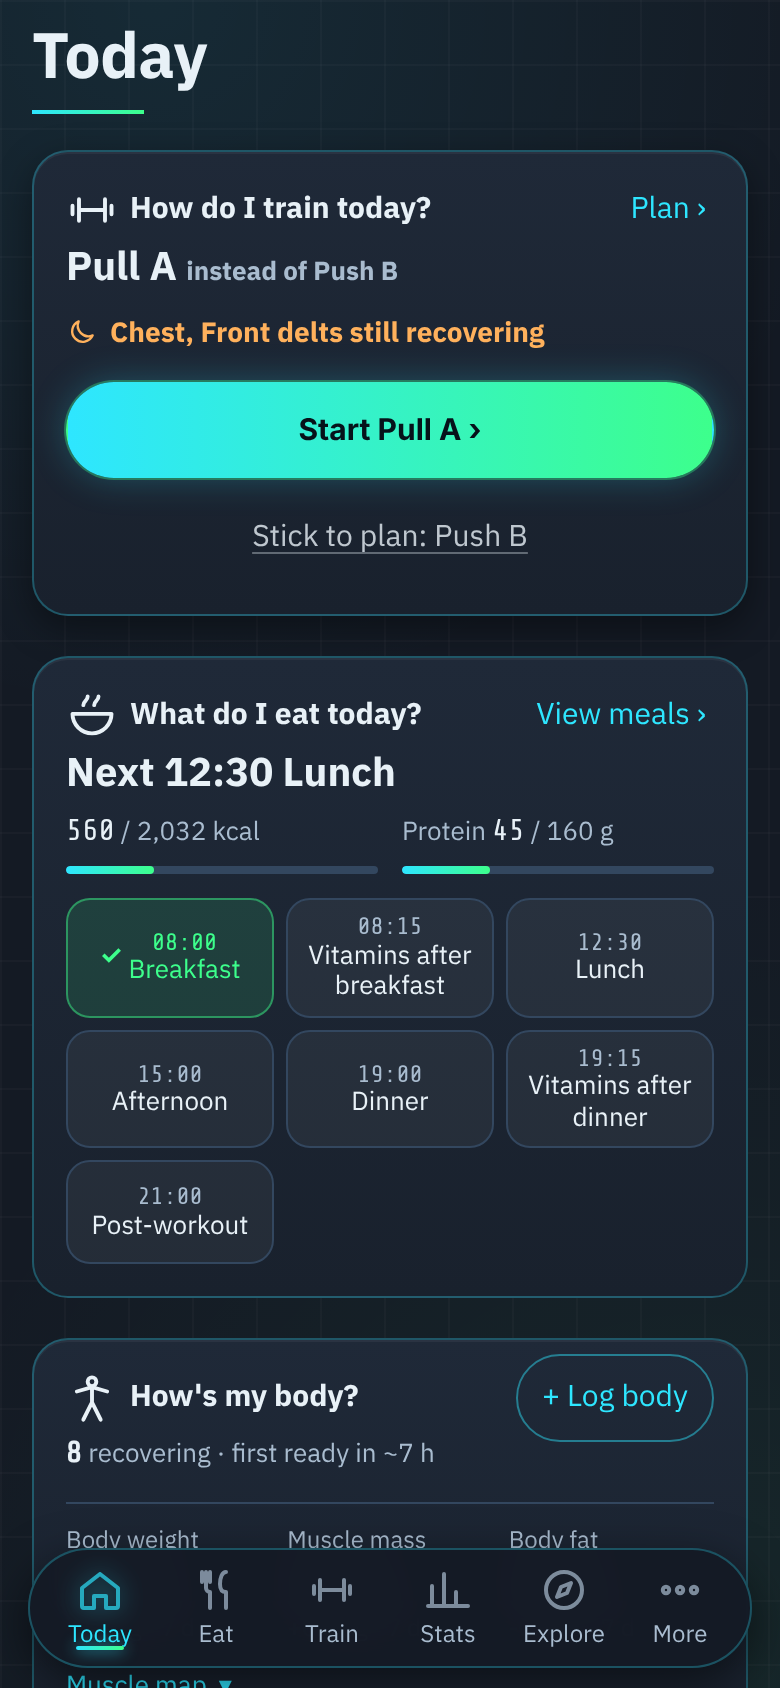
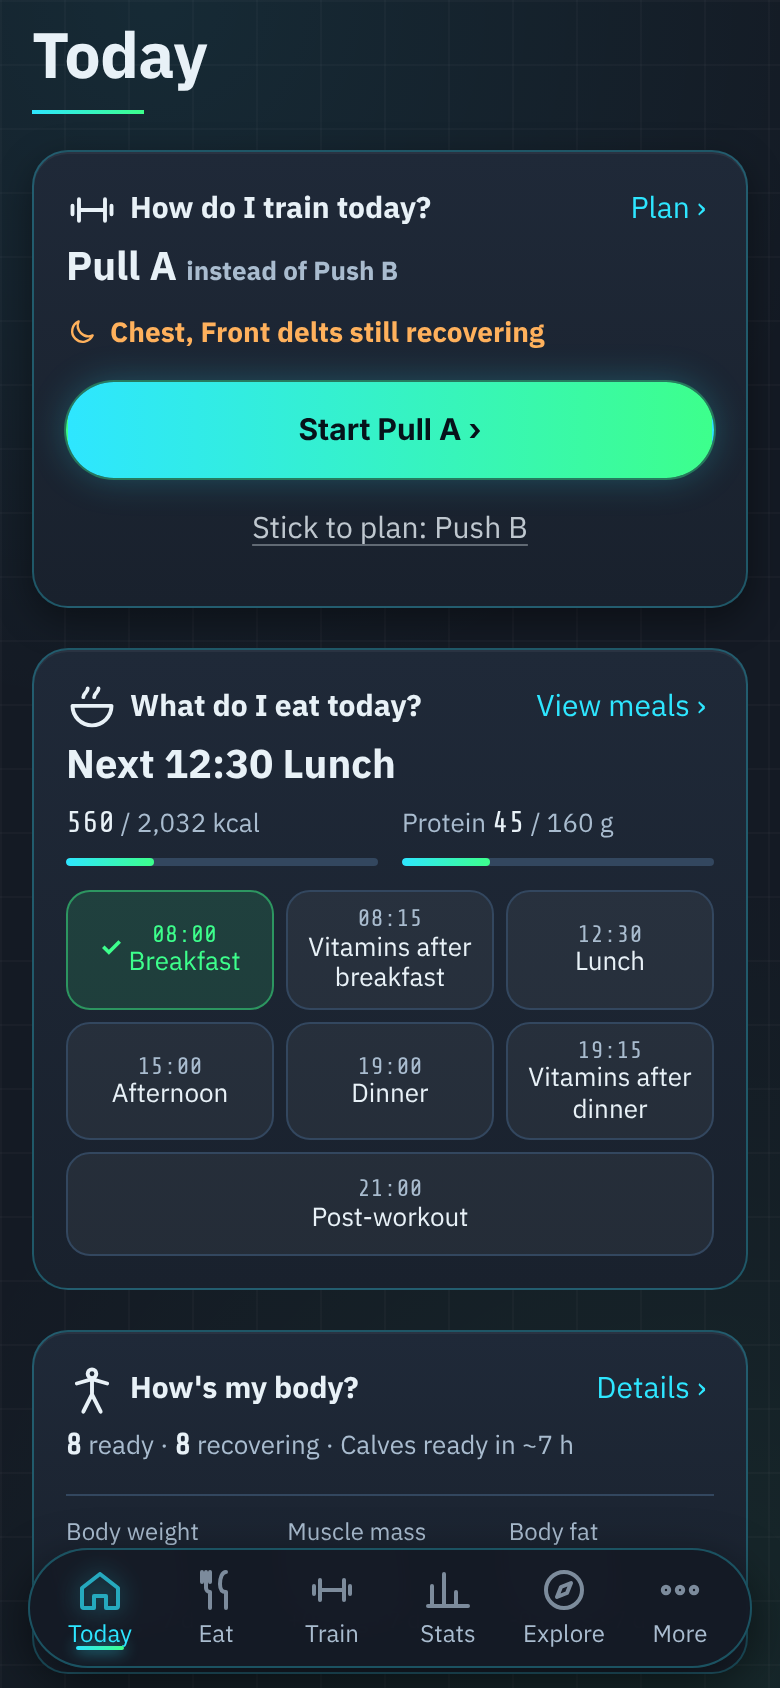
Today: full muscle names, named next-ready muscle, no orphan chip, fat delta in points (#123)
* docs: Today critique snapshot + redesign intent

Claude-Session: https://claude.ai/code/session_01TA1QFnqgBxBRFsiXemJ9Lg

* chore: ignore impeccable live-server state

Claude-Session: https://claude.ai/code/session_01TA1QFnqgBxBRFsiXemJ9Lg

* Today: plan first, one start button, inline meal tick, folded recovery

Claude-Session: https://claude.ai/code/session_01TA1QFnqgBxBRFsiXemJ9Lg

* docs: merge PR automatically once npm test passes

Claude-Session: https://claude.ai/code/session_01TA1QFnqgBxBRFsiXemJ9Lg

* docs: no OK wait between steps

Claude-Session: https://claude.ai/code/session_01TA1QFnqgBxBRFsiXemJ9Lg

* Today: recovery-aware start, undo on meal tick, progress bars, direct start

Claude-Session: https://claude.ai/code/session_01TA1QFnqgBxBRFsiXemJ9Lg

* Today: rested program leads, rest-day exit, inline meal cancel, over-target bar

Claude-Session: https://claude.ai/code/session_01TA1QFnqgBxBRFsiXemJ9Lg

* Today: body weight + 7-day change + weigh-in in the body card

Claude-Session: https://claude.ai/code/session_01TA1QFnqgBxBRFsiXemJ9Lg

* Today: body card shows weight, muscle mass and body fat

Claude-Session: https://claude.ai/code/session_01TA1QFnqgBxBRFsiXemJ9Lg

* Today: weigh-in opens the full body-log sheet

Claude-Session: https://claude.ai/code/session_01TA1QFnqgBxBRFsiXemJ9Lg

* Today: headline matches suggestion, inline cancel, blank weigh-in, fits above tab bar

Claude-Session: https://claude.ai/code/session_01TA1QFnqgBxBRFsiXemJ9Lg
[…]

diff --git a/public/js/home.js b/public/js/home.js
@@ -32,10 +32,10 @@ function renderHome(){const box=document.getElementById("v-home");if(!box)return
   const BL=(typeof BODY!=="undefined"?BODY:[]).slice().sort((x,y)=>x.d.localeCompare(y.d)),bwL=BL.filter(x=>x.kg>0).slice(-1)[0];
   const stat=(k,lbl,u)=>{const L=BL.filter(x=>x[k]>0),z=L.slice(-1)[0];if(!z)return `<span class="hq-st"><small>${t(lbl)}</small><b>–</b></span>`;
     const w=L.filter(x=>(ds2d(z.d)-ds2d(x.d))/864e5>=6).slice(-1)[0],dl=w?Math.round((z[k]-w[k])*10)/10:null;
-    return `<span class="hq-st"><small>${t(lbl)}</small><b><span class="hq-num">${z[k]}</span> ${u}</b>${dl!==null?`<i>${dl>0?"+":""}${dl} ${u} · 7 ${t("วัน")}</i>`:""}</span>`};
+    return `<span class="hq-st"><small>${t(lbl)}</small><b><span class="hq-num">${z[k]}</span> ${u}</b>${dl!==null?`<i>${dl>0?"+":""}${dl} ${k==="fat"?t("จุด"):u} · 7 ${t("วัน")}</i>`:""}</span>`};
   const bwRow=!BL.length?`<small class="hq-s">${t("ยังไม่ได้บันทึก — ชั่งครั้งแรกเพื่อดูความเปลี่ยนแปลง")}</small>`:`<span class="hq-bw">${stat("kg","น้ำหนักตัว","kg")}${stat("mm","มวลกล้ามเนื้อ","kg")}${stat("fat","ไขมัน","%")}</span>`;
   const recSum=!hasHist?t("ยังไม่มีประวัติ — เล่นครั้งแรกแล้วจะเห็นว่ากล้ามส่วนไหนพร้อม")
-    :[[REC_ORDER.filter(m=>[0,3,4].includes(st(m))).length,"พร้อมเล่น",1],[REC_ORDER.filter(m=>[1,2].includes(st(m))).length,"กำลังฟื้น"]].filter(x=>x[0]).map(([c,l])=>`<b class="hq-num">${c}</b> ${t(l).replace(/_$/,"")}`).join(" · ")+(()=>{const nxt=REC_ORDER.filter(m=>[1,2].includes(st(m))).map(m=>R[m].ready-Date.now()).filter(x=>x>0).sort((a,b)=>a-b)[0];return nxt?` · ${t("กลุ่มแรกพร้อมใน")} ~${Math.max(1,Math.round(nxt/36e5))} ${t("ชม.")}`:""})();
+    :[[REC_ORDER.filter(m=>[0,3,4].includes(st(m))).length,"พร้อมเล่น",1],[REC_ORDER.filter(m=>[1,2].includes(st(m))).length,"กำลังฟื้น"]].filter(x=>x[0]).map(([c,l])=>`<b class="hq-num">${c}</b> ${t(l).replace(/_$/,"")}`).join(" · ")+(()=>{const nm0=REC_ORDER.filter(m=>[1,2].includes(st(m))&&R[m].ready>Date.now()).sort((x,y)=>R[x].ready-R[y].ready)[0];return nm0?` · ${t(MUS_NAME[nm0])} ${t("พร้อมใน")} ~${Math.max(1,Math.round((R[nm0].ready-Date.now())/36e5))} ${t("ชม.")}`:""})();
   {const rw=document.getElementById("rec-wrap");if(rw&&box.contains(rw))document.body.appendChild(rw);const rc=document.getElementById("rec-cfg");if(rc&&box.contains(rc)&&rw)rw.appendChild(rc)}   // park it: innerHTML below would destroy it
   box.innerHTML=`<div class="date">${thDate(TODAY,{weekday:"long",day:"numeric",month:"short"})}</div>
     <section class="hq-card hq-main"><span class="hq-h"><span class="hq-q">${licon("dumbbell")} ${t("วันนี้ออกกำลังยังไง")}</span><button class="hq-l" data-go="gym">${t("แผน_today").replace(/_today$/,"")} ›</button></span>
@@ -58,7 +58,7 @@ function renderHome(){const box=document.getElementById("v-home");if(!box)return
   box.querySelectorAll("[data-meal]").forEach(b=>b.addEventListener("click",()=>{if(!food[TODAY])food[TODAY]={done:{}};const dn=food[TODAY].done=food[TODAY].done||{},id=b.dataset.meal;if(dn[id])delete dn[id];else dn[id]=true;save("mealcheck",food);renderHome()}));
   // full recovery map sits inside the collapsed "How's my body?" row (moved node keeps its handlers)
   const rw=document.getElementById("rec-wrap"),slot=box.querySelector(".hq-rec");{const rc=document.getElementById("rec-cfg"),cs=box.querySelector(".hq-cfg-slot");if(rc&&cs)cs.replaceWith(rc)}if(rw&&slot){slot.appendChild(rw);rw.hidden=false;box.querySelectorAll("[data-i]").forEach(e=>e.textContent=t(e.dataset.i));try{renderRecovery(document.getElementById("rec-body"))}catch(e){console.error(e)}}}
-Object.assign(EN,{"วัน":"days","ร่างกายฉันเป็นยังไง":"How's my body?","วันนี้กินอะไร":"What do I eat today?","วันนี้ออกกำลังยังไง":"How do I train today?","ส่วน":"areas","กล้ามพร้อมทุกส่วน":"All muscles ready","น้ำหนัก":"Weight","มื้อถัดไป":"Next","ดูแผน":"View meals","ดู":"View","เริ่ม":"Start","วางแผน":"Plan","วางแผนวันนี้":"Plan today","ทำเสร็จ":"Done","พร้อมเล่น":"ready","แผน_today":"Plan","ดูรายละเอียด":"Details","ซ่อนรายละเอียด":"Hide details","ข้าม_":"skipped","ยังไม่ติ๊ก":"Not ticked yet","กลุ่มแรกพร้อมใน":"first ready in","แนะนำแทน":"instead of","ดูบันทึกวันนี้":"See today's log","เปิดไม่สำเร็จ":"Couldn't open","ยังไม่เคยเล่น_":"never trained","ยังไม่ได้บันทึก — ชั่งครั้งแรกเพื่อดูความเปลี่ยนแปลง":"Nothing logged yet — log once to start tracking change","เปิดโปรแกรมไม่สำเร็จ — เลือกจากแท็บออกกำลัง":"Couldn't open the program — pick it in Train","100% = กล้ามพักพอ เล่นหนักได้อีกครั้ง":"100% = rested, ready to train hard again","เกินเป้า":"over target","ดูแผนที่กล้าม":"Muscle map","จาก":"of","รายการวันนี้":"today","กลุ่มกล้าม":"muscle groups","ติ๊กมื้อที่กินแล้ว":"Tick meals eaten","แก้บันทึกวันนี้":"Edit today","บันทึกร่างกาย":"Log body","แนะนำวันนี้":"suggested today","ใน 7 วัน":"in 7 days","ยังไม่ได้บันทึกน้ำหนัก":"No weight logged yet","ชั่งวันนี้":"Weigh in","เล่นตามแผน":"Stick to plan","ออกกำลังอยู่ดี":"Train anyway","ยังฟื้นไม่เต็มที่":"still recovering","แทน":"instead","กินมื้อนี้แล้ว":"Ate this meal","กำลังฟื้น":"recovering","เลือกโปรแกรมที่กล้ามพร้อม":"Pick a program for rested muscles","ยังไม่ได้เล่น — เริ่มโปรแกรมแรก":"No workouts yet — start your first program","ยังไม่มีประวัติ — เล่นครั้งแรกแล้วจะเห็นว่ากล้ามส่วนไหนพร้อม":"No history yet — after your first workout you will see which muscles are ready","ครบทุกมื้อแล้ว":"All meals done","ยังไม่ได้วางแผน":"Nothing planned yet","เสร็จแล้ว":"done","ให้ร่างกายฟื้นตัว":"Let your body recover","กิน":"Eat","ออกกำลัง":"Train","ร่างกาย":"Body","สถิติการฝึก":"Training stats","สถิติสัปดาห์นี้":"This week's stats","โปรแกรม · คลังท่า · สถานที่":"Programs · library · places"});
+Object.assign(EN,{"วัน":"days","ร่างกายฉันเป็นยังไง":"How's my body?","วันนี้กินอะไร":"What do I eat today?","วันนี้ออกกำลังยังไง":"How do I train today?","ส่วน":"areas","กล้ามพร้อมทุกส่วน":"All muscles ready","น้ำหนัก":"Weight","มื้อถัดไป":"Next","ดูแผน":"View meals","ดู":"View","เริ่ม":"Start","วางแผน":"Plan","วางแผนวันนี้":"Plan today","ทำเสร็จ":"Done","พร้อมเล่น":"ready","แผน_today":"Plan","ดูรายละเอียด":"Details","ซ่อนรายละเอียด":"Hide details","ข้าม_":"skipped","ยังไม่ติ๊ก":"Not ticked yet","พร้อมใน":"ready in","จุด":"pts","แนะนำแทน":"instead of","ดูบันทึกวันนี้":"See today's log","เปิดไม่สำเร็จ":"Couldn't open","ยังไม่เคยเล่น_":"never trained","ยังไม่ได้บันทึก — ชั่งครั้งแรกเพื่อดูความเปลี่ยนแปลง":"Nothing logged yet — log once to start tracking change","เปิดโปรแกรมไม่สำเร็จ — เลือกจากแท็บออกกำลัง":"Couldn't open the program — pick it in Train","100% = กล้ามพักพอ เล่นหนักได้อีกครั้ง":"100% = rested, ready to train hard again","เกินเป้า":"over target","ดูแผนที่กล้าม":"Muscle map","จาก":"of","รายการวันนี้":"today","กลุ่มกล้าม":"muscle groups","ติ๊กมื้อที่กินแล้ว":"Tick meals eaten","แก้บันทึกวันนี้":"Edit today","บันทึกร่างกาย":"Log body","แนะนำวันนี้":"suggested today","ใน 7 วัน":"in 7 days","ยังไม่ได้บันทึกน้ำหนัก":"No weight logged yet","ชั่งวันนี้":"Weigh in","เล่นตามแผน":"Stick to plan","ออกกำลังอยู่ดี":"Train anyway","ยังฟื้นไม่เต็มที่":"still recovering","แทน":"instead","กินมื้อนี้แล้ว":"Ate this meal","กำลังฟื้น":"recovering","เลือกโปรแกรมที่กล้ามพร้อม":"Pick a program for rested muscles","ยังไม่ได้เล่น — เริ่มโปรแกรมแรก":"No workouts yet — start your first program","ยังไม่มีประวัติ — เล่นครั้งแรกแล้วจะเห็นว่ากล้ามส่วนไหนพร้อม":"No history yet — after your first workout you will see which muscles are ready","ครบทุกมื้อแล้ว":"All meals done","ยังไม่ได้วางแผน":"Nothing planned yet","เสร็จแล้ว":"done","ให้ร่างกายฟื้นตัว":"Let your body recover","กิน":"Eat","ออกกำลัง":"Train","ร่างกาย":"Body","สถิติการฝึก":"Training stats","สถิติสัปดาห์นี้":"This week's stats","โปรแกรม · คลังท่า · สถานที่":"Programs · library · places"});
 // bottom of the training tab: weekly stats + setup shortcuts
 // #rec-cfg sits after the scripts in index.html — delegate so the button works whenever it exists
 document.addEventListener("click",e=>{if(e.target.closest&&e.target.closest("#rec-cfg"))openRecCfg()});

diff --git a/public/index.html b/public/index.html
@@ -8,11 +8,11 @@
 <meta name="apple-mobile-web-app-status-bar-style" content="black-translucent">
 <meta name="apple-mobile-web-app-title" content="WeightGram">
 <link rel="manifest" href="/manifest.webmanifest">
-<link rel="apple-touch-icon" href="/apple-touch-icon.png?v=138542">
+<link rel="apple-touch-icon" href="/apple-touch-icon.png?v=138543">
 <title>WeightGram</title>
 <link rel="stylesheet" href="https://fonts.googleapis.com/css2?family=IBM+Plex+Sans+Thai:wght@400;500;700&family=IBM+Plex+Mono:wght@400;500&family=Share+Tech+Mono&display=swap">
 <style>:root{padding-top:env(safe-area-inset-top,0px);padding-bottom:env(safe-area-inset-bottom,0px)}*{-webkit-tap-highlight-color:transparent}body{margin:0;font-size:var(--t-sm);font-family:system-ui,sans-serif}img{max-width:100%}[hidden]{display:none!important}</style>
-<link rel="stylesheet" href="/css/app.css?v=138542">
+<link rel="stylesheet" href="/css/app.css?v=138543">
 </head><body>
 
 <div class="wrap">
@@ -276,37 +276,37 @@
   </div>
 </div>
 
-<script src="/js/core.js?v=138542"></script>
-<script src="/js/food.js?v=138542"></script>
-<script src="/js/locations.js?v=138542"></script>
-<script src="/js/programs.js?v=138542"></script>
-<script src="/js/run.js?v=138542"></script>
-<script src="/js/workout.js?v=138542"></script>
-<script src="/js/exercise-edit.js?v=138542"></script>
-<script src="/js/edit-tx.js?v=138542"></script>
-<script src="/js/exercise-library.js?v=138542"></script>
-<script src="/js/program-manager.js?v=138542"></script>
-<script src="/js/hero.js?v=138542"></script>
-<script src="/js/rest-timer.js?v=138542"></script>
-<script src="/js/auth.js?v=138542"></script>
-<script src="/js/push.js?v=138542"></script>
-<script src="/js/data-io.js?v=138542"></script>
-<script src="/js/sync.js?v=138542"></script>
-<script src="/js/muscle-map.js?v=138542"></script>
-<script src="/js/progress.js?v=138542"></script>
-<script src="/js/history-chart.js?v=138542"></script>
-<script src="/js/stats-extra.js?v=138542"></script>
-<script src="/js/meal-plan.js?v=138542"></script>
-<script src="/js/undo.js?v=138542"></script>
-<script src="/js/home.js?v=138542"></script>
-<script src="/js/share.js?v=138542"></script>
-<script src="/js/explore.js?v=138542"></script>
-<script src="/js/onboarding.js?v=138542"></script>
-<script src="/js/account.js?v=138542"></script>
-<script src="/js/share-card.js?v=138542"></script>
-<script src="/js/number-pad.js?v=138542"></script>
-<script src="/js/refresh.js?v=138542"></script>
-<script src="/js/app.js?v=138542"></script>
+<script src="/js/core.js?v=138543"></script>
+<script src="/js/food.js?v=138543"></script>
+<script src="/js/locations.js?v=138543"></script>
+<script src="/js/programs.js?v=138543"></script>
+<script src="/js/run.js?v=138543"></script>
+<script src="/js/workout.js?v=138543"></script>
+<script src="/js/exercise-edit.js?v=138543"></script>
+<script src="/js/edit-tx.js?v=138543"></script>
+<script src="/js/exercise-library.js?v=138543"></script>
+<script src="/js/program-manager.js?v=138543"></script>
+<script src="/js/hero.js?v=138543"></script>
+<script src="/js/rest-timer.js?v=138543"></script>
+<script src="/js/auth.js?v=138543"></script>
+<script src="/js/push.js?v=138543"></script>
+<script src="/js/data-io.js?v=138543"></script>
+<script src="/js/sync.js?v=138543"></script>
+<script src="/js/muscle-map.js?v=138543"></script>
+<script src="/js/progress.js?v=138543"></script>
+<script src="/js/history-chart.js?v=138543"></script>
+<script src="/js/stats-extra.js?v=138543"></script>
+<script src="/js/meal-plan.js?v=138543"></script>
+<script src="/js/undo.js?v=138543"></script>
+<script src="/js/home.js?v=138543"></script>
+<script src="/js/share.js?v=138543"></script>
+<script src="/js/explore.js?v=138543"></script>
+<script src="/js/onboarding.js?v=138543"></script>
+<script src="/js/account.js?v=138543"></script>
+<script src="/js/share-card.js?v=138543"></script>
+<script src="/js/number-pad.js?v=138543"></script>
+<script src="/js/refresh.js?v=138543"></script>
+<script src="/js/app.js?v=138543"></script>
 
 <div id="rec-wrap" class="stack" style="gap:10px" hidden><div class="rcf-head"><div class="sec-t" data-i="การฟื้นตัวของกล้ามเนื้อ">การฟื้นตัวของกล้ามเนื้อ</div><button class="btn sm" id="rec-cfg">⚙ <span data-i="ตั้งเวลาฟื้นตัว">ตั้งเวลาฟื้นตัว</span></button></div><div class="card" id="rec-body"></div></div>
 </body></html>

diff --git a/public/js/stats-extra.js b/public/js/stats-extra.js
@@ -98,7 +98,7 @@ function renderRecovery(full){const box=full||document.getElementById("rec-card"
   const tiles=REC_ORDER.map(m=>{const o=R[m],s=o?state(o):3,w=!o||s===4?100:o.pct;/* never trained = fully rested */return `<button class="rec-t s${s}" data-m="${m}"><b>${t(MUS_NAME[m])}</b><span class="rec-p">${lab(m)}</span><small class="rec-sub">${sub(m)||"&nbsp;"}</small><i class="rec-bar"><i style="width:${w}%;background:${REC_C[s]}"></i></i></button>`}).join("");
   box.innerHTML=`<div class="rec-fig">${bodySVG([],[],320,m=>REC_C[ago(m)?state(ago(m)):3])}</div>
     <div class="rec-grid">${tiles}</div>
-    <div class="rec-leg">${[[1,"< 40%"],[2,"กำลังฟื้น"],[3,"พร้อม"]].concat([]).map(([k,l])=>`<span><i style="background:${REC_C[k]}"></i>${t(l)}</span>`).join("")}</div>`}
+    <div class="rec-leg">${[[1,"เพิ่งเล่น (<40%)"],[2,"กำลังฟื้น"],[3,"พร้อม"]].concat([]).map(([k,l])=>`<span><i style="background:${REC_C[k]}"></i>${t(l)}</span>`).join("")}</div>`}
 /* ---------- generic bottom sheet ---------- */
 // sheet stack: a sheet opened from another sheet remembers it; ✕ / backdrop / Cancel go back ONE level (not to the page).
 // Same title = re-render (replace). Re-opening a title that is lower in the stack returns to it. closeGen() closes everything.
@@ -119,7 +119,7 @@ function open1RM(){PAD.kg1={steps:[1,2.5,5,10],def:40};PAD.rp1={chips:Array.from
     b.querySelectorAll("input").forEach(i=>i.addEventListener("change",calc));calc()})}
 function openBadges(){openGen("🏆 "+t("เหรียญรางวัล"),`<div class="badges" id="badges"></div><button class="btn" data-gen-close>${t("ปิด")}</button>`,()=>{try{renderProgress()}catch(e){}})}
 /* ---------- body composition: weight + muscle mass + body fat ---------- */
-Object.assign(EN,{"มวลกล้ามเนื้อ":"Muscle mass","ไขมัน":"Body fat","บันทึกร่างกาย":"Log body","บันทึก":"Save"});
+Object.assign(EN,{"เพิ่งเล่น (<40%)":"Just trained (<40%)","มวลกล้ามเนื้อ":"Muscle mass","ไขมัน":"Body fat","บันทึกร่างกาย":"Log body","บันทึก":"Save"});
 let bodyMetric="kg",openBodyLog=null;   // body log sheet, exposed so Today can open it
 let bodyRange=90,bodyGoal=(()=>{try{return +localStorage.getItem("bodygoal")||0}catch(e){return 0}})();
 Object.assign(EN,{"เป้าหมาย":"Goal","ตั้งเป้า":"Set goal","อีก":"to go","ถึงเป้าแล้ว 🎉":"Goal reached 🎉","7 วัน":"7 days","30 วัน":"30 days","ต่อสัปดาห์":"per week","ประวัติ":"History","วันที่":"Date","ลบ":"Delete","แก้":"Edit","ใส่ค่า":"Enter value","สูงสุด":"High","ต่ำสุด":"Low","เพิ่มบันทึก":"Add entry"});

diff --git a/public/css/app.css b/public/css/app.css
@@ -1166,7 +1166,7 @@ input:not([type=checkbox]):not([type=radio]),select{min-height:44px}
 .hq-weigh{min-height:44px;margin:-12px 0}
 #v-home .hq-warn{font-size:var(--t-sm);font-weight:600}
 #v-home .hq-go{min-height:48px}
-.hq-meals{display:grid;grid-template-columns:repeat(auto-fill,minmax(104px,1fr));gap:6px;margin-top:8px}
+.hq-meals{display:grid;grid-template-columns:repeat(3,minmax(0,1fr));gap:6px;margin-top:8px}
 .hq-meals::-webkit-scrollbar{display:none}
 .hq-mc{min-width:0;display:inline-flex;align-items:center;justify-content:center;gap:4px;min-height:44px;padding:0 8px;border-radius:999px;border:1px solid var(--line);background:var(--w05);color:var(--fg);font:inherit;font-size:var(--t-meta);cursor:pointer;white-space:nowrap}
 .hq-mc span{overflow:hidden;text-overflow:ellipsis}
@@ -1194,3 +1194,7 @@ input:not([type=checkbox]):not([type=radio]),select{min-height:44px}
 .hq-rec #rec-wrap{margin-top:12px}
 .hq-chev{display:inline-block;transition:transform .2s cubic-bezier(.16,1,.3,1)}
 .hq-det[aria-expanded="true"] .hq-chev{transform:rotate(90deg)}
+/* last row of meal chips stretches — no orphan */
+.hq-mc:last-child:nth-child(3n+1){grid-column:1/-1}.hq-mc:last-child:nth-child(3n+2){grid-column:span 2}
+/* muscle tiles: full names, wrap instead of "Front d…" */
+.rec-t b,#rec-card .rec-grid .rec-t b,.rec-wrap .rec-t b{white-space:normal!important;overflow:visible!important;text-overflow:clip!important;line-height:1.2;overflow-wrap:anywhere}

diff --git a/docs/work/2026-11-21-today-redesign/plan.md b/docs/work/2026-11-21-today-redesign/plan.md
@@ -75,3 +75,9 @@
 - next meal more than 2 h overdue reads "ยังไม่ติ๊ก <time> <meal>"
 - body: drops "never trained" once there is history; adds "กลุ่มแรกพร้อมใน ~N ชม."
 - "+ บันทึกร่างกาย" is an outlined pill (action, not nav); sheet focuses the first input and returns focus to the trigger
+
+## Critique v13 (32/40) — user picked 4 fixes
+- muscle tile names wrap (no "Front d…"), app-wide
+- "<muscle> พร้อมใน ~N ชม." instead of "กลุ่มแรกพร้อมใน"
+- meal chips: fixed 3 cols, last row stretches (no orphan)
+- body-fat delta in "จุด"/pts; legend "เพิ่งเล่น (<40%)"
